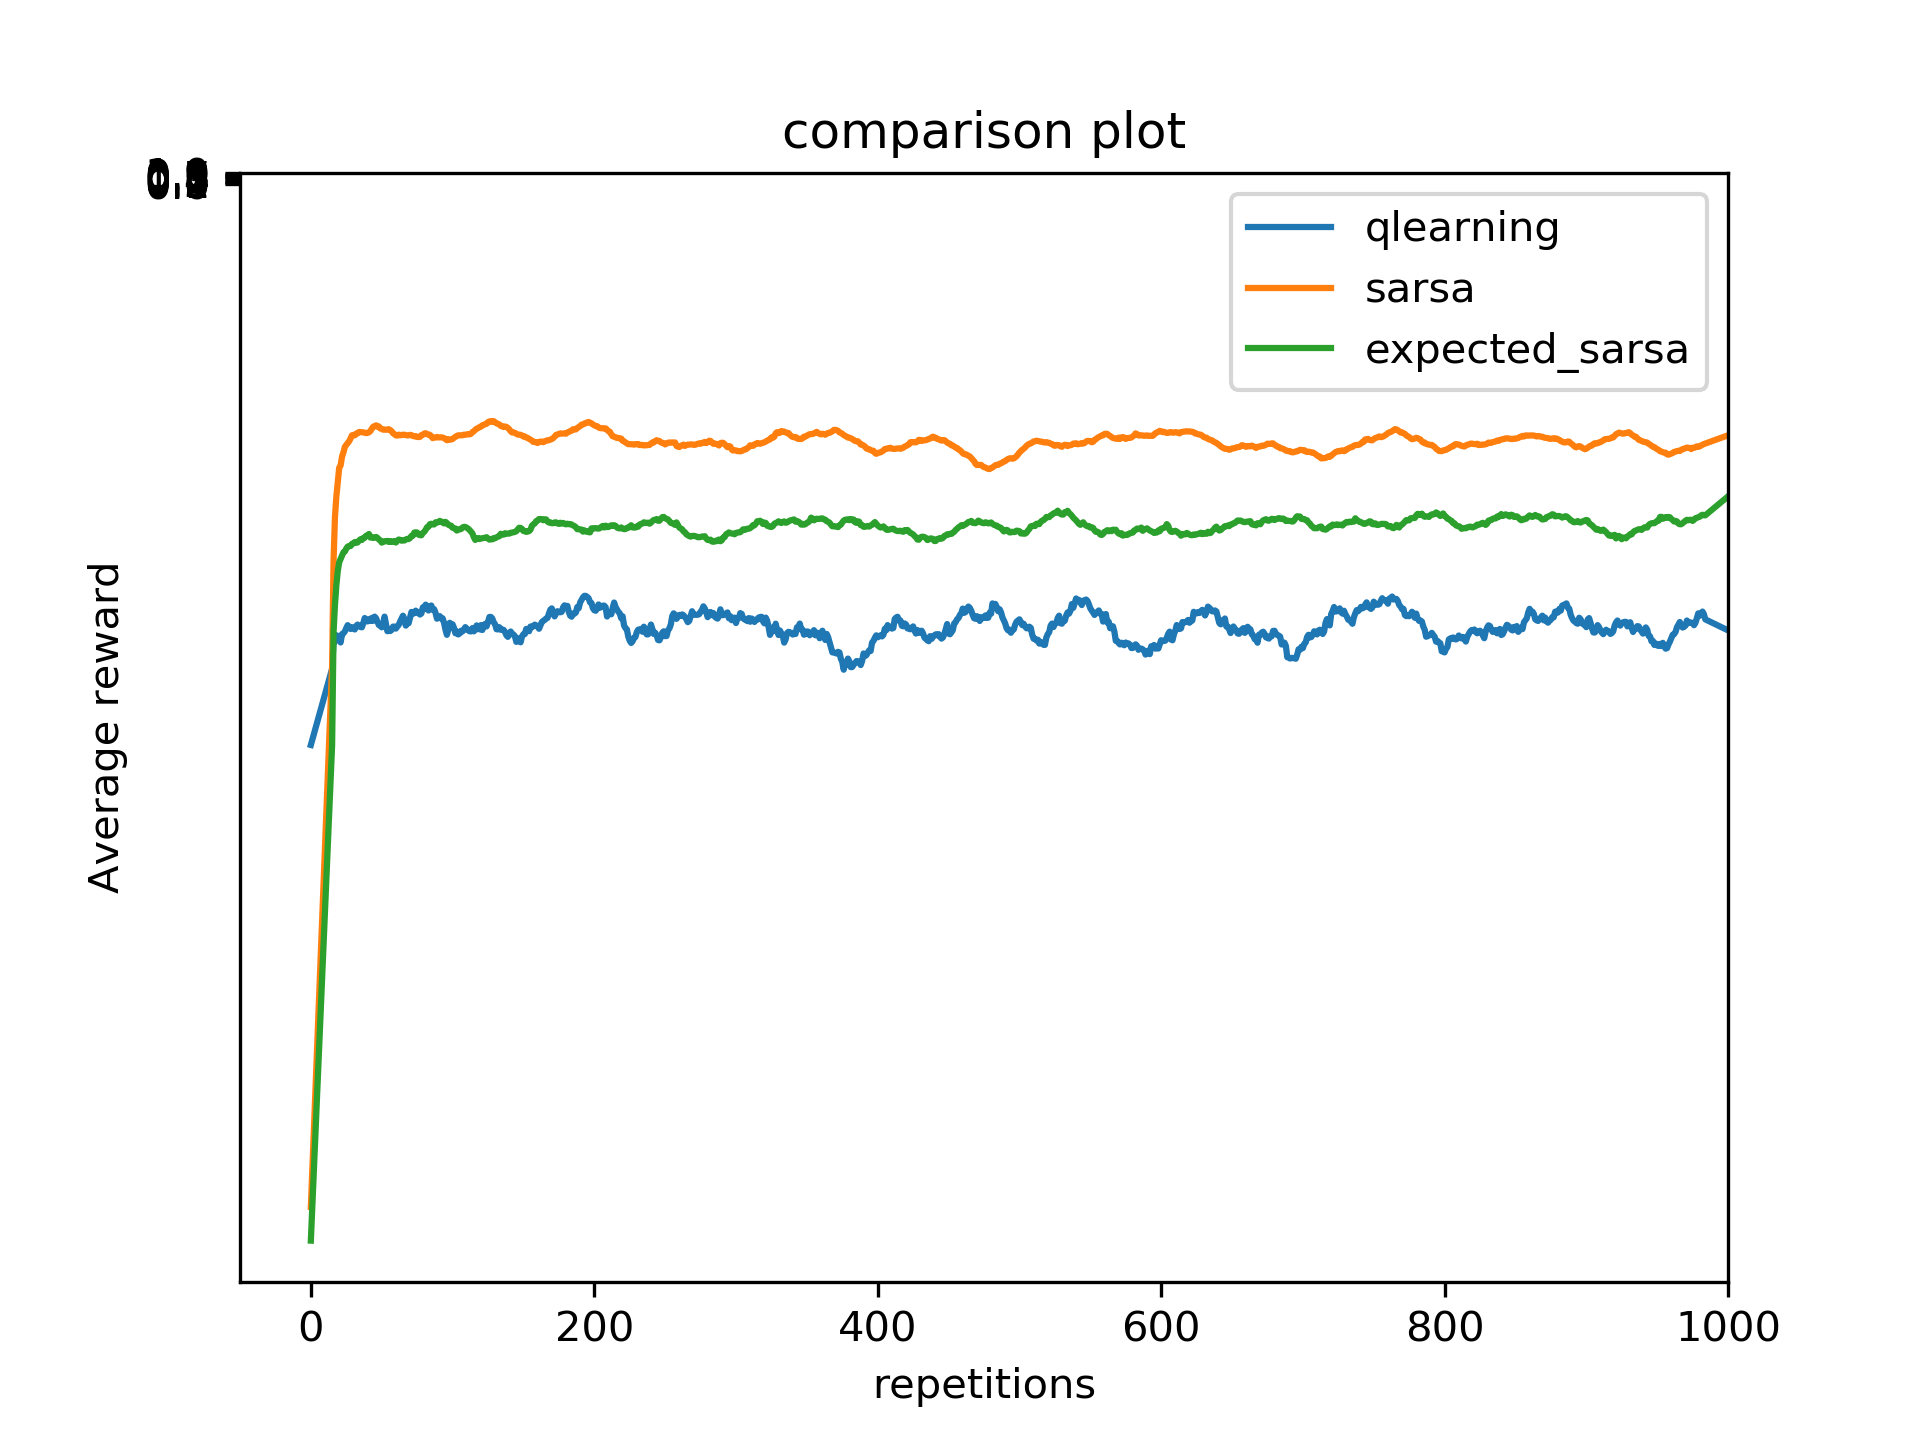
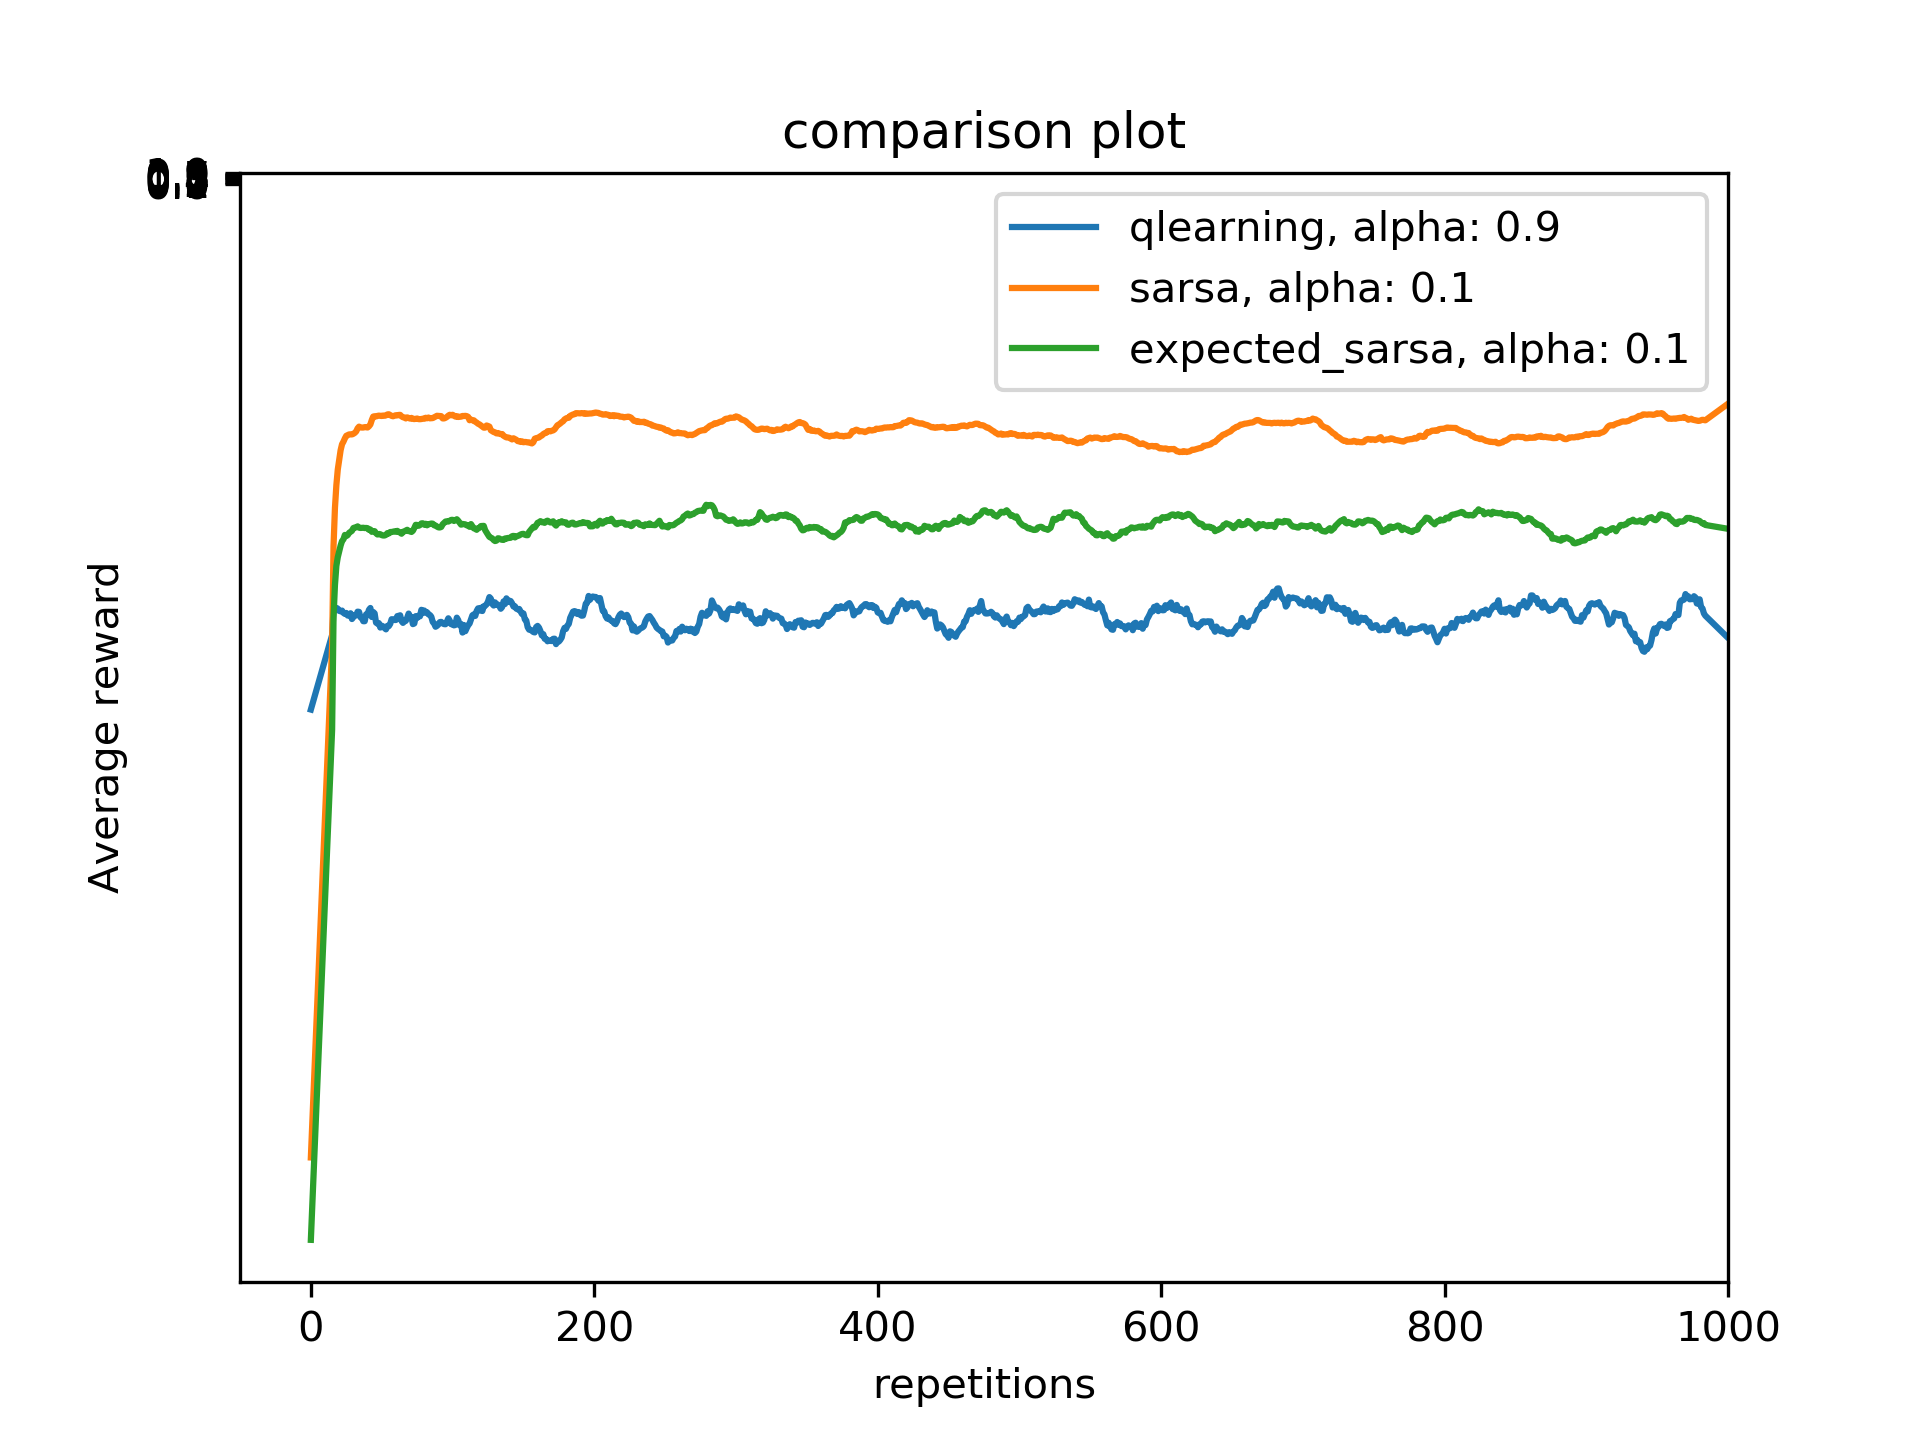
final final final commit fr

Changed region(s): [[0.1562, 0.125, 0.9062, 0.5312], [0.8125, 0.2812, 0.9062, 0.3125]]

diff --git a/ShortCutExperiment.py b/ShortCutExperiment.py
@@ -134,7 +134,7 @@ def create_comparison(n_episodes, n_repititions):
         print(agent_type)
         reward_array = run_repetitions(agent_type, alphas[i], n_episodes, n_repititions)
         smoothed = smooth(reward_array, 31)
-        plot.add_curve(x=np.arange(n_episodes), y=smoothed, label=agent_type)
+        plot.add_curve(x=np.arange(n_episodes), y=smoothed, label=agent_type + ', alpha: ' + str(alphas[i]))
         
         i += 1
     plot.save('comparison.png')
@@ -154,8 +154,8 @@ def create_windy_plots(n_episodes):
         #plt.savefig('windy_'+agent_type+'.png')
          
 
-create_plots(1000, 100)
-create_windy_plots(10000)
+#create_plots(1000, 100)
+#create_windy_plots(10000)
 create_comparison(1000, 100)
 
         
